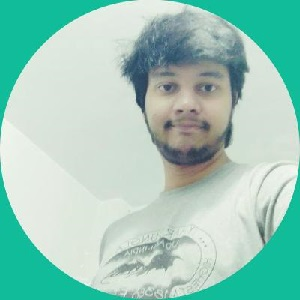
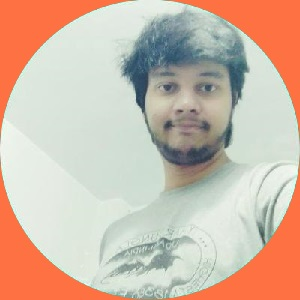
major update

Changed region(s): [[0.0, 0.51, 1.0, 1.0], [0.54, 0.0, 1.0, 0.48], [0.0, 0.0, 0.45, 0.45]]

diff --git a/css/freelancer.min.css b/css/freelancer.min.css
@@ -2,4 +2,4 @@
  * Start Bootstrap - Freelancer v3.3.7+1 (http://startbootstrap.com/template-overviews/freelancer)
  * Copyright 2013-2016 Start Bootstrap
  * Licensed under MIT (https://github.com/BlackrockDigital/startbootstrap/blob/gh-pages/LICENSE)
- */body{font-family:Lato,'Helvetica Neue',Helvetica,Arial,sans-serif;overflow-x:hidden}p{font-size:20px}p.small{font-size:16px}a,a.active,a:active,a:focus,a:hover{color:#18BC9C;outline:0}h1,h2,h3,h4,h5,h6{font-family:Montserrat,"Helvetica Neue",Helvetica,Arial,sans-serif;text-transform:uppercase;font-weight:700}hr.star-light,hr.star-primary{padding:0;border:none;border-top:solid 5px;text-align:center;max-width:250px;margin:25px auto 30px}hr.star-light:after,hr.star-primary:after{content:"\f005";font-family:FontAwesome;display:inline-block;position:relative;top:-.8em;font-size:2em;padding:0 .25em}.navbar-custom,header .intro-text .name{font-family:Montserrat,"Helvetica Neue",Helvetica,Arial,sans-serif;text-transform:uppercase}hr.star-light{border-color:#fff}hr.star-light:after{background-color:#18BC9C;color:#fff}hr.star-primary{border-color:#2C3E50}hr.star-primary:after{background-color:#fff;color:#2C3E50}.navbar-custom .navbar-brand,.navbar-custom .navbar-brand.active,.navbar-custom .navbar-brand:active,.navbar-custom .navbar-brand:focus,.navbar-custom .navbar-brand:hover,.navbar-custom .navbar-nav li a,header{color:#fff}.img-centered{margin:0 auto}header{text-align:center;background:#18BC9C}header .container{padding-top:40px;padding-bottom:50px}header img{display:block;margin:0 auto 20px}header .intro-text .name{display:block;font-weight:700;font-size:2em}header .intro-text .skills{font-size:1.25em;font-weight:300}@media (min-width:768px){header .container{padding-top:140px;padding-bottom:70px}header .intro-text .name{font-size:4.75em}header .intro-text .skills{font-size:1.75em}}.navbar-custom{background:#2C3E50;font-weight:700;border:none}.navbar-custom a:focus{outline:0}.navbar-custom .navbar-nav{letter-spacing:1px}.navbar-custom .navbar-nav li a:hover{color:#18BC9C;outline:0}.navbar-custom .navbar-nav li a:active,.navbar-custom .navbar-nav li a:focus{color:#fff}.navbar-custom .navbar-nav li.active a,.navbar-custom .navbar-nav li.active a:active,.navbar-custom .navbar-nav li.active a:focus,.navbar-custom .navbar-nav li.active a:hover{color:#fff;background:#18BC9C}.navbar-custom .navbar-toggle{color:#fff;text-transform:uppercase;font-size:10px;border-color:#fff}.navbar-custom .navbar-toggle:focus,.navbar-custom .navbar-toggle:hover{background-color:#18BC9C;color:#fff;border-color:#18BC9C}@media (min-width:768px){.navbar-custom{padding:25px 0;-webkit-transition:padding .3s;-moz-transition:padding .3s;transition:padding .3s}.navbar-custom .navbar-brand{font-size:2em;-webkit-transition:all .3s;-moz-transition:all .3s;transition:all .3s}.navbar-custom.affix{padding:10px 0}.navbar-custom.affix .navbar-brand{font-size:1.5em}}section{padding:100px 0}section h2{margin:0;font-size:3em}section.success{background:#18BC9C;color:#fff}@media (max-width:767px){section{padding:75px 0}section.first{padding-top:75px}}#portfolio .portfolio-item{margin:0 0 15px;right:0}#portfolio .portfolio-item .portfolio-link{display:block;position:relative;max-width:400px;margin:0 auto}#portfolio .portfolio-item .portfolio-link .caption{background:rgba(24,188,156,.9);position:absolute;width:100%;height:100%;opacity:0;transition:all ease .5s;-webkit-transition:all ease .5s;-moz-transition:all ease .5s}#portfolio .portfolio-item .portfolio-link .caption:hover{opacity:1}#portfolio .portfolio-item .portfolio-link .caption .caption-content{position:absolute;width:100%;height:20px;font-size:20px;text-align:center;top:50%;margin-top:-12px;color:#fff}.btn-social,.scroll-top,.scroll-top .btn{width:50px;height:50px}#portfolio .portfolio-item .portfolio-link .caption .caption-content i{margin-top:-12px}#portfolio .portfolio-item .portfolio-link .caption .caption-content h3,#portfolio .portfolio-item .portfolio-link .caption .caption-content h4{margin:0}#portfolio *{z-index:2}@media (min-width:767px){#portfolio .portfolio-item{margin:0 0 30px}}.floating-label-form-group{position:relative;margin-bottom:0;padding-bottom:.5em;border-bottom:1px solid #eee}.floating-label-form-group input,.floating-label-form-group textarea{z-index:1;position:relative;padding-right:0;padding-left:0;border:none;border-radius:0;font-size:1.5em;background:0 0;box-shadow:none!important;resize:none}.floating-label-form-group label{display:block;z-index:0;position:relative;top:2em;margin:0;font-size:.85em;line-height:1.764705882em;vertical-align:middle;vertical-align:baseline;opacity:0;-webkit-transition:top .3s ease,opacity .3s ease;-moz-transition:top .3s ease,opacity .3s ease;-ms-transition:top .3s ease,opacity .3s ease;transition:top .3s ease,opacity .3s ease}.floating-label-form-group:not(:first-child){padding-left:14px;border-left:1px solid #eee}.floating-label-form-group-with-value label{top:0;opacity:1}.floating-label-form-group-with-focus label{color:#18BC9C}form .row:first-child .floating-label-form-group{border-top:1px solid #eee}footer{color:#fff}footer h3{margin-bottom:30px}footer .footer-above{padding-top:50px;background-color:#2C3E50}footer .footer-col{margin-bottom:50px}footer .footer-below{padding:25px 0;background-color:#233140}.btn-outline{color:#fff;font-size:20px;border:2px solid #fff;background:0 0;transition:all .3s ease-in-out;margin-top:15px}.btn-outline.active,.btn-outline:active,.btn-outline:focus,.btn-outline:hover{color:#18BC9C;background:#fff;border:2px solid #fff}.btn-primary.active,.btn-primary:active,.btn-success.active,.btn-success:active,.open .dropdown-toggle.btn-primary,.open .dropdown-toggle.btn-success{background-image:none}.btn-primary{color:#fff;background-color:#2C3E50;border-color:#2C3E50;font-weight:700}.btn-primary.active,.btn-primary:active,.btn-primary:focus,.btn-primary:hover,.open .dropdown-toggle.btn-primary{color:#fff;background-color:#1a242f;border-color:#161f29}.btn-primary.disabled,.btn-primary.disabled.active,.btn-primary.disabled:active,.btn-primary.disabled:focus,.btn-primary.disabled:hover,.btn-primary[disabled],.btn-primary[disabled].active,.btn-primary[disabled]:active,.btn-primary[disabled]:focus,.btn-primary[disabled]:hover,fieldset[disabled] .btn-primary,fieldset[disabled] .btn-primary.active,fieldset[disabled] .btn-primary:active,fieldset[disabled] .btn-primary:focus,fieldset[disabled] .btn-primary:hover{background-color:#2C3E50;border-color:#2C3E50}.btn-primary .badge{color:#2C3E50;background-color:#fff}.btn-success{color:#fff;background-color:#18BC9C;border-color:#18BC9C;font-weight:700}.btn-success.active,.btn-success:active,.btn-success:focus,.btn-success:hover,.open .dropdown-toggle.btn-success{color:#fff;background-color:#128f76;border-color:#11866f}.btn-success.disabled,.btn-success.disabled.active,.btn-success.disabled:active,.btn-success.disabled:focus,.btn-success.disabled:hover,.btn-success[disabled],.btn-success[disabled].active,.btn-success[disabled]:active,.btn-success[disabled]:focus,.btn-success[disabled]:hover,fieldset[disabled] .btn-success,fieldset[disabled] .btn-success.active,fieldset[disabled] .btn-success:active,fieldset[disabled] .btn-success:focus,fieldset[disabled] .btn-success:hover{background-color:#18BC9C;border-color:#18BC9C}.btn-success .badge{color:#18BC9C;background-color:#fff}.btn-social{display:inline-block;border:2px solid #fff;border-radius:100%;text-align:center;font-size:20px;line-height:45px}.btn.active,.btn:active,.btn:focus{outline:0}.scroll-top{position:fixed;right:2%;bottom:2%;z-index:1049}.scroll-top .btn{font-size:20px;border-radius:100%;line-height:28px}.scroll-top .btn:focus{outline:0}.portfolio-modal .modal-content{border-radius:0;background-clip:border-box;-webkit-box-shadow:none;box-shadow:none;border:none;min-height:100%;padding:100px 0;text-align:center}.portfolio-modal .modal-content h2{margin:0;font-size:3em}.portfolio-modal .modal-content img{margin-bottom:30px}.portfolio-modal .modal-content .item-details{margin:30px 0}.portfolio-modal .close-modal{position:absolute;width:75px;height:75px;background-color:transparent;top:25px;right:25px;cursor:pointer}.portfolio-modal .close-modal:hover{opacity:.3}.portfolio-modal .close-modal .lr{height:75px;width:1px;margin-left:35px;background-color:#2C3E50;transform:rotate(45deg);-ms-transform:rotate(45deg);-webkit-transform:rotate(45deg);z-index:1051}.portfolio-modal .close-modal .lr .rl{height:75px;width:1px;background-color:#2C3E50;transform:rotate(90deg);-ms-transform:rotate(90deg);-webkit-transform:rotate(90deg);z-index:1052}.portfolio-modal .modal-backdrop{opacity:0;display:none}
+ */body{font-family:Lato,'Helvetica Neue',Helvetica,Arial,sans-serif;overflow-x:hidden}p{font-size:20px}p.small{font-size:16px}a,a.active,a:active,a:focus,a:hover{color:#fe7143;outline:0}h1,h2,h3,h4,h5,h6{font-family:Montserrat,"Helvetica Neue",Helvetica,Arial,sans-serif;text-transform:uppercase;font-weight:700}hr.star-light,hr.star-primary{padding:0;border:none;border-top:solid 5px;text-align:center;max-width:250px;margin:25px auto 30px}hr.star-light:after,hr.star-primary:after{content:"\f005";font-family:FontAwesome;display:inline-block;position:relative;top:-.8em;font-size:2em;padding:0 .25em}.navbar-custom,header .intro-text .name{font-family:Montserrat,"Helvetica Neue",Helvetica,Arial,sans-serif;text-transform:uppercase}hr.star-light{border-color:#fff}hr.star-light:after{background-color:#fe7143;color:#fff}hr.star-primary{border-color:#2C3E50}hr.star-primary:after{background-color:#fff;color:#2C3E50}.navbar-custom .navbar-brand,.navbar-custom .navbar-brand.active,.navbar-custom .navbar-brand:active,.navbar-custom .navbar-brand:focus,.navbar-custom .navbar-brand:hover,.navbar-custom .navbar-nav li a,header{color:#fff}.img-centered{margin:0 auto}header{height: 636px; text-align:center;background-image: url("cover.jpg");background-position: right top;background-size: 1350px 636px;}header .container{padding-top:70px;padding-bottom:60px}header img{display:block;margin:0 auto 20px}header .intro-text .name{display:block;font-weight:700;font-size:2em}header .intro-text .skills{font-size:1.25em;font-weight:300}@media (min-width:768px){header .container{padding-top:160px;padding-bottom:75px}header .intro-text .name{font-size:4.75em}header .intro-text .skills{font-size:1.75em}}.navbar-custom{background:#2C3E50;font-weight:700;border:none}.navbar-custom a:focus{outline:0}.navbar-custom .navbar-nav{letter-spacing:1px}.navbar-custom .navbar-nav li a:hover{color:#fe7143;outline:0}.navbar-custom .navbar-nav li a:active,.navbar-custom .navbar-nav li a:focus{color:#fff}.navbar-custom .navbar-nav li.active a,.navbar-custom .navbar-nav li.active a:active,.navbar-custom .navbar-nav li.active a:focus,.navbar-custom .navbar-nav li.active a:hover{color:#fff;background:#fe7143}.navbar-custom .navbar-toggle{color:#fff;text-transform:uppercase;font-size:10px;border-color:#fff}.navbar-custom .navbar-toggle:focus,.navbar-custom .navbar-toggle:hover{background-color:#fe7143;color:#fff;border-color:#fe7143}@media (min-width:768px){.navbar-custom{padding:25px 0;-webkit-transition:padding .3s;-moz-transition:padding .3s;transition:padding .3s}.navbar-custom .navbar-brand{font-size:2em;-webkit-transition:all .3s;-moz-transition:all .3s;transition:all .3s}.navbar-custom.affix{padding:10px 0}.navbar-custom.affix .navbar-brand{font-size:1.5em}}section{padding:50px 0}section h2{margin:0;font-size:3em}section.success{background:#fe7143;color:#fff}@media (max-width:767px){section{padding:75px 0}section.first{padding-top:40px}}#portfolio .portfolio-item{margin:0 0 15px;right:0}#portfolio .portfolio-item .portfolio-link{display:block;position:relative;max-width:400px;margin:0 auto}#portfolio .portfolio-item .portfolio-link .caption{background:rgba(24,188,156,.9);position:absolute;width:100%;height:100%;opacity:0;transition:all ease .5s;-webkit-transition:all ease .5s;-moz-transition:all ease .5s}#portfolio .portfolio-item .portfolio-link .caption:hover{opacity:1}#portfolio .portfolio-item .portfolio-link .caption .caption-content{position:absolute;width:100%;height:20px;font-size:20px;text-align:center;top:50%;margin-top:-12px;color:#fff}.btn-social,.scroll-top,.scroll-top .btn{width:50px;height:50px}#portfolio .portfolio-item .portfolio-link .caption .caption-content i{margin-top:-12px}#portfolio .portfolio-item .portfolio-link .caption .caption-content h3,#portfolio .portfolio-item .portfolio-link .caption .caption-content h4{margin:0}#portfolio *{z-index:2}@media (min-width:767px){#portfolio .portfolio-item{margin:0 0 30px}}.floating-label-form-group{position:relative;margin-bottom:0;padding-bottom:.5em;border-bottom:1px solid #eee}.floating-label-form-group input,.floating-label-form-group textarea{z-index:1;position:relative;padding-right:0;padding-left:0;border:none;border-radius:0;font-size:1.5em;background:0 0;box-shadow:none!important;resize:none}.floating-label-form-group label{display:block;z-index:0;position:relative;top:2em;margin:0;font-size:.85em;line-height:1.764705882em;vertical-align:middle;vertical-align:baseline;opacity:0;-webkit-transition:top .3s ease,opacity .3s ease;-moz-transition:top .3s ease,opacity .3s ease;-ms-transition:top .3s ease,opacity .3s ease;transition:top .3s ease,opacity .3s ease}.floating-label-form-group:not(:first-child){padding-left:14px;border-left:1px solid #eee}.floating-label-form-group-with-value label{top:0;opacity:1}.floating-label-form-group-with-focus label{color:#fe7143}form .row:first-child .floating-label-form-group{border-top:1px solid #eee}footer{color:#fff}footer h3{margin-bottom:30px}footer .footer-above{padding-top:50px;background-color:#2C3E50}footer .footer-col{margin-bottom:50px}footer .footer-below{padding:25px 0;background-color:#233140}.btn-outline{color:#fff;font-size:20px;border:2px solid #fff;background:0 0;transition:all .3s ease-in-out;margin-top:15px}.btn-outline.active,.btn-outline:active,.btn-outline:focus,.btn-outline:hover{color:#fe7143;background:#fff;border:2px solid #fff}.btn-primary.active,.btn-primary:active,.btn-success.active,.btn-success:active,.open .dropdown-toggle.btn-primary,.open .dropdown-toggle.btn-success{background-image:none}.btn-primary{color:#fff;background-color:#2C3E50;border-color:#2C3E50;font-weight:700}.btn-primary.active,.btn-primary:active,.btn-primary:focus,.btn-primary:hover,.open .dropdown-toggle.btn-primary{color:#fff;background-color:#1a242f;border-color:#161f29}.btn-primary.disabled,.btn-primary.disabled.active,.btn-primary.disabled:active,.btn-primary.disabled:focus,.btn-primary.disabled:hover,.btn-primary[disabled],.btn-primary[disabled].active,.btn-primary[disabled]:active,.btn-primary[disabled]:focus,.btn-primary[disabled]:hover,fieldset[disabled] .btn-primary,fieldset[disabled] .btn-primary.active,fieldset[disabled] .btn-primary:active,fieldset[disabled] .btn-primary:focus,fieldset[disabled] .btn-primary:hover{background-color:#2C3E50;border-color:#2C3E50}.btn-primary .badge{color:#2C3E50;background-color:#fff}.btn-success{color:#fff;background-color:#fe7143;border-color:#fe7143;font-weight:700}.btn-success.active,.btn-success:active,.btn-success:focus,.btn-success:hover,.open .dropdown-toggle.btn-success{color:#fff;background-color:#128f76;border-color:#11866f}.btn-success.disabled,.btn-success.disabled.active,.btn-success.disabled:active,.btn-success.disabled:focus,.btn-success.disabled:hover,.btn-success[disabled],.btn-success[disabled].active,.btn-success[disabled]:active,.btn-success[disabled]:focus,.btn-success[disabled]:hover,fieldset[disabled] .btn-success,fieldset[disabled] .btn-success.active,fieldset[disabled] .btn-success:active,fieldset[disabled] .btn-success:focus,fieldset[disabled] .btn-success:hover{background-color:#fe7143;border-color:#fe7143}.btn-success .badge{color:#fe7143;background-color:#fff}.btn-social{display:inline-block;border:2px solid #fff;border-radius:100%;text-align:center;font-size:20px;line-height:45px}.btn.active,.btn:active,.btn:focus{outline:0}.scroll-top{position:fixed;right:2%;bottom:2%;z-index:1049}.scroll-top .btn{font-size:20px;border-radius:100%;line-height:28px}.scroll-top .btn:focus{outline:0}.portfolio-modal .modal-content{border-radius:0;background-clip:border-box;-webkit-box-shadow:none;box-shadow:none;border:none;min-height:100%;padding:100px 0;text-align:center}.portfolio-modal .modal-content h2{margin:0;font-size:3em}.portfolio-modal .modal-content img{margin-bottom:30px}.portfolio-modal .modal-content .item-details{margin:30px 0}.portfolio-modal .close-modal{position:absolute;width:75px;height:75px;background-color:transparent;top:25px;right:25px;cursor:pointer}.portfolio-modal .close-modal:hover{opacity:.3}.portfolio-modal .close-modal .lr{height:75px;width:1px;margin-left:35px;background-color:#2C3E50;transform:rotate(45deg);-ms-transform:rotate(45deg);-webkit-transform:rotate(45deg);z-index:1051}.portfolio-modal .close-modal .lr .rl{height:75px;width:1px;background-color:#2C3E50;transform:rotate(90deg);-ms-transform:rotate(90deg);-webkit-transform:rotate(90deg);z-index:1052}.portfolio-modal .modal-backdrop{opacity:0;display:none}

diff --git a/index.html b/index.html
@@ -8,7 +8,7 @@
     <meta name="description" content="Personal Website | Abhishek Verma">
     <meta name="author" content="Abhishek Verma">
 
-    <title link rel="icon" href="favicon.ico" type="image/x-icon" >Abhishek Verma</title>
+    <title>Abhishek Verma</title>
     <link href="vendor/bootstrap/css/bootstrap.min.css" rel="stylesheet">
     <link href="css/freelancer.min.css" rel="stylesheet">
     <link href="css/mycss.css" rel="stylesheet">
@@ -65,10 +65,11 @@
         <div class="container">
             <div class="row">
                 <div class="col-lg-12">
-                  <img >
-                    <img class="img-responsive" src="img/profile.jpg" class="img-circle" alt="Cinque Terre" width="250" height="250">
+
                     <div class="intro-text">
-                          <hr class="star-light">
+                      <br><br><br><br><br><br><br><br><br>
+                        <h2 align="center" class="name">Hi, I am Abhishek Verma</h2>
+                        <br><br>
                         <span class="skills"> A computer polyglot  and ❤ for Linux. Computer science student @UPES 🏆 and, Open source community member @duckduckgo. Machine learning engineer, Data analyst and Artificial Intelligence programmer.</span>
                     </div>
                 </div>
@@ -80,7 +81,10 @@
     <section  id="feat">
       <div class = "container">
           <div class="row">
-                <div class="col-md-12 feat">
+                <div class="col-md-4 feat">
+                  <img class="img-responsive" src="img/profilew.jpg" class="img-circle" alt="Cinque Terre" width="250" height="250">
+                </div>
+                <div class="col-md-8 feat">
                 <p><ul style="list-style-type:disc">
                    <font size="5">
                    <li><i class="fa fa-bookmark" aria-hidden="true"></i><a href="https://hell-sing.github.io/blog/blog.html"> Blog's</a> about <i class="fa fa-code" aria-hidden="true"></i> programing and <i class="fa fa-stack-overflow" aria-hidden="true"></i> trending technologies.</li>
@@ -98,50 +102,47 @@
     <!-- About Section -->
     <section class="success" id="about">
         <div class="container">
-            <div class="row">
                 <div class="col-lg-12 text-center">
                     <h2>About Me</h2>
                     <hr class="star-light">
                 </div>
                 <div class="col-lg-12 text-center">
-            </div>
           </div>
             <div class="row">
-                <div class="col-lg-4 col-lg-offset-2">
-              <p align="justify">I am a Bachelor of Technology student, majoring in Computer Science  with specialization in Open source software and Open standards, at University of Petroleum and Energy Studies and Machine Learning Engineer nanodegree from Udacity Inc. I love exploring new technology and creating things from scratch. My area of interest is Robotics and Artificial Intelligence. More about my education and experiece.</p>
+                <div class="col-lg-6">
+              <p align="justify">I am a Bachelor of Technology student, majoring in Computer Science  with specialization in Open source software and Open standards, at University of Petroleum and Energy Studies and Machine Learning Engineer nanodegree from Udacity Inc. I love exploring new technology and creating things from scratch. My area of interest is Robotics and Artificial Intelligence.</p>
             </div>
-                <div class="col-lg-4">
-              <p align="justify">My career objective is to do promising and productive work in the field of open source technologies and robotics  I am also an open source community contributor at DuckDuckGo. Technical writter, member of various Computer Socities. I have conducted various workshops and co-curricular activities at University of Petroleum and Energy Studies. I am friendly, honest and helpfull. Visit my gallery and blog.</p>
+                <div class="col-lg-6">
+              <p align="justify">My career objective is to do promising and productive work in the field of open source technologies and robotics.  I am also an open source community contributor at DuckDuckGo. Technical writter, member of various Computer Socities. I have conducted various workshops and co-curricular activities at University of Petroleum and Energy Studies.</p>
             </div>
           </div>
-      <div class="col-sm-12 text-center">
-        <div class="col-sm-2 text-center"></div>
-          <div class="col-sm-2 text-center">
-              <a href="https://hell-sing.github.io/about/education.html" class="btn btn-lg btn-outline"  aria-hidden="true" target="_blank"><i class="fa fa-fw fa-briefcase"></i> Education</a>
-                </div>
-            <div class="col-sm-2 text-center">
-              <a href="https://hell-sing.github.io/blog/blog.html" class="btn btn-lg btn-outline"  aria-hidden="true" target="_blank"><i class="fa fa-fw fa-bookmark-o"></i> Archive </a>
-                </div>
-            <div class="col-sm-2 text-center">
-              <a href="https://hell-sing.github.io/about/experience.html" class="btn btn-lg btn-outline"  aria-hidden="true" target="_blank"><i class="fa fa-fw fa-code "> </i> Experience</a>
-                </div>
-            <div class="col-sm-2 text-center">
-              <a href="https://hell-sing.github.io/gallery/gallery.html" class="btn btn-lg btn-outline"  aria-hidden="true" target="_blank"><i class="fa fa-fw fa-camera"> </i> Gallery</a>
-                </div>
-          <div class="col-sm-2 text-center"></div>
-        </div>
+          <div class="col-sm-12 text-center">
+            <div class="col-sm-2 text-center"></div>
+              <div class="col-sm-2 text-center">
+                  <a href="https://hell-sing.github.io/about/education.html" class="btn btn-lg btn-outline"  aria-hidden="true" target="_blank"><i class="fa fa-fw fa-briefcase"></i> Education</a>
+                    </div>
+                <div class="col-sm-2 text-center">
+                  <a href="https://hell-sing.github.io/blog/blog.html" class="btn btn-lg btn-outline"  aria-hidden="true" target="_blank"><i class="fa fa-fw fa-bookmark-o"></i> Archive </a>
+                    </div>
+                <div class="col-sm-2 text-center">
+                  <a href="https://hell-sing.github.io/about/experience.html" class="btn btn-lg btn-outline"  aria-hidden="true" target="_blank"><i class="fa fa-fw fa-code "> </i> Experience</a>
+                    </div>
+                <div class="col-sm-2 text-center">
+                  <a href="https://hell-sing.github.io/gallery/gallery.html" class="btn btn-lg btn-outline"  aria-hidden="true" target="_blank"><i class="fa fa-fw fa-camera"> </i> Gallery</a>
+                    </div>
+              <div class="col-sm-2 text-center"></div>
+            </div>
       </div>
     </section>
 
     <section  id="skills">
-        <div class = "parallax">
             <div class="row">
                 <div class="col-lg-12 text-center">
                     <h2>Skills</h2>
                     <hr class="star-primary">
                 </div>
             </div>
-            <div class="wthreeskills-grids">
+            <div class="wthreeskills-grid">
               <div class="col-md-6 wthreeskills-grid wthreeskills-grid-1">
                 <h4>TECHNICAL SKILLS</h4>
                 <!-- Tabs -->
@@ -244,8 +245,6 @@
                 </div>
               <div class="clearfix"></div>
             </div>
-          </div>
-        </div>
     </section>
 
 
@@ -362,6 +361,7 @@
                     </a>
                 </div>
             </div>
+
         </div>
     </section>
 

diff --git a/css/style.css b/css/style.css
@@ -6,11 +6,18 @@
 .wthreeskills {
 	padding: 100px 0;
 	background-color: #F5F5F5;
+	margin: 0 30px 0  30px;
+}
+.wthreeskills-grid{
+		padding: 0 20px 0 20px;
+
 }
 
+.wthreeskills-grid-2 {
+	background-color: #f2f2f2;
+}
 .wthreeskills-grid-1 h4 {
 	width: 40%;
-	margin: 0 30px 0 0;
 }
 
 .wthreeskills-grid-2 h4 {

diff --git a/css/freelancer.css b/css/freelancer.css
@@ -195,7 +195,7 @@ section.success {
     padding: 75px 0;
   }
   section.first {
-    padding-top: 75px;
+    padding-top: 40px;
   }
 }
 #portfolio .portfolio-item {
